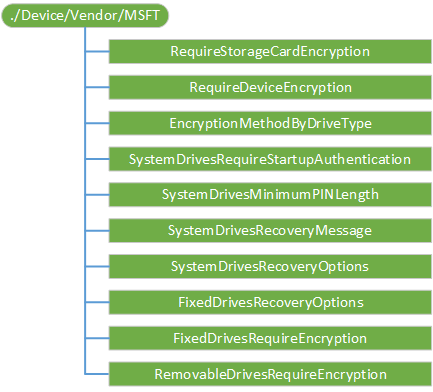
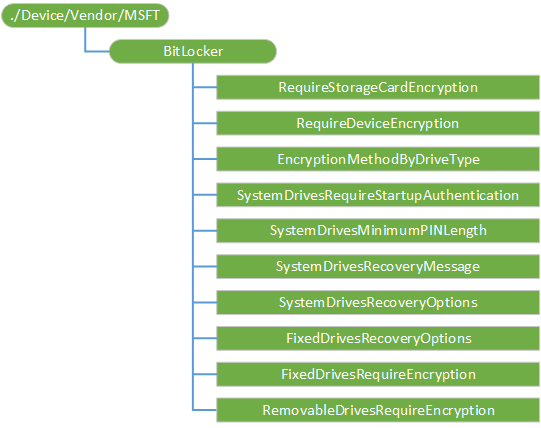
updated BitLocker CSP and image

diff --git a/docset/customize/mdm/bitlocker-csp.md b/docset/customize/mdm/bitlocker-csp.md
@@ -14,7 +14,7 @@ MSHAttr:
 
 The BitLocker configuration service provider (CSP) is used by the enterprise to manage encryption of PCs and devices.
 
-> [!Notes]  
+> [!Note]  
 > Settings are only read at the time encryption is started. Encryption is not restarted with settings changes.
 
 The following diagram shows the AppLocker configuration service provider in tree format.
@@ -22,7 +22,7 @@ The following diagram shows the AppLocker configuration service provider in tree
 ![bitlocker csp](images/provisioning-csp-bitlocker.png)
 
 <a href="" id="--device-vendor-msft-bitlocker"></a>**./Device/Vendor/MSFT/BitLocker**  
-<p style="margin-left: 20px">Defines the root node for the BitLocker configuration service provider.
+<p style="margin-left: 20px">Defines the root node for the BitLocker configuration service provider.  
 
 <a href="" id="requirestoragecardencryption"></a>**RequireStorageCardEncryption**  
 <p style="margin-left: 20px">TBD.</p>
@@ -116,13 +116,13 @@ The following diagram shows the AppLocker configuration service provider in tree
 <a href="" id="removabledrivesrequireencryption"></a>**RemovableDrivesRequireEncryption**  
 <p style="margin-left: 20px">This setting is a direct mapping to the Bitlocker Group Policy "Deny write access to removable drives not protected by BitLocker".</p>
 
-This setting configures whether BitLocker protection is required for a computer to be able to write data to a removable data drive.
+<p style="margin-left: 20px">This setting configures whether BitLocker protection is required for a computer to be able to write data to a removable data drive.</p>
 
-If you enable this setting, all removable data drives that are not BitLocker-protected will be mounted as read-only. If the drive is protected by BitLocker, it will be mounted with read and write access.
+<p style="margin-left: 20px">If you enable this setting, all removable data drives that are not BitLocker-protected will be mounted as read-only. If the drive is protected by BitLocker, it will be mounted with read and write access.</p>
 
-If the "Deny write access to devices configured in another organization" option is selected, only drives with identification fields matching the computer's identification fields will be given write access. When a removable data drive is accessed it will be checked for valid identification field and allowed identification fields. These fields are defined by the "Provide the unique identifiers for your organization" setting.
+<p style="margin-left: 20px">If the "Deny write access to devices configured in another organization" option is selected, only drives with identification fields matching the computer's identification fields will be given write access. When a removable data drive is accessed it will be checked for valid identification field and allowed identification fields. These fields are defined by the "Provide the unique identifiers for your organization" setting.</p>
 
-If you disable or do not configure this setting, all removable data drives on the computer will be mounted with read and write access.
+<p style="margin-left: 20px">If you disable or do not configure this setting, all removable data drives on the computer will be mounted with read and write access.</p>
 
 > [!Note]  
 > This setting can be overridden by the settings under User Configuration\Administrative Templates\System\Removable Storage Access. If the "Removable Disks: Deny write access" setting is enabled this setting will be ignored.
